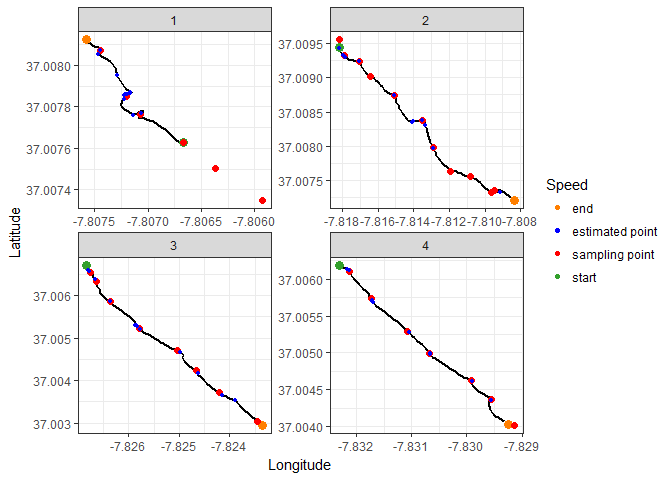
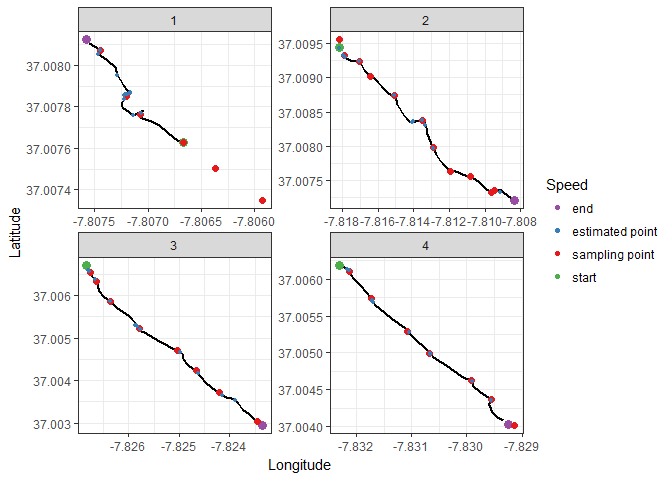
README

diff --git a/README.md b/README.md
@@ -3,6 +3,8 @@ Caulerpa sampling in the Ria Formosa
 Márcio Martins
 26 Jan 2018
 
+Caulerpa prolifera sampling transects
+-------------------------------------
 
 To determine the spatial distribution of *Caulerpa prolifera*, divers swam transects across a canal in the Ria Formosa lagoon (South Portugal) and stopped at pre-determined intervals to collect samples.
 
@@ -12,12 +14,12 @@ To determine the spatial distribution of *Caulerpa prolifera*, divers swam trans
 -   Sampling points were also determined by having a user look at footage of the dives, mark the times at which samples were taken and them crossing them with the GPS data. These points were then used to confirm if this automatic method is accurate
 
 **GOALS:**
-1. To determine start and end point of each transect, isolate and extract them
-2. Using the extracted transects, attempt to determine sampling points
+1. To determine start and end point of each transect, isolate and extract them.
+2. Determine sampling points along the transect.
 
 ### Isolating transects
 
-Let's start by importing the tracks. File format is ".gpx". For conveniency, I will convert this information into a matrix-like format. There are 4 also tracks on record. We are only interested in the last one.
+Let's start by importing the tracks. File format is ".gpx". For conveniency, I will convert this information into a tabular format. There are 4 also tracks on record. We are only interested in the last one.
 
 ``` r
 track <- readOGR("./GPS_tracks.gpx", layer = "track_points")
@@ -53,7 +55,7 @@ head(points)
     ## 5 2018-01-25 12:38:19  37.0 -7.81
     ## 6 2018-01-25 12:38:20  37.0 -7.81
 
-Now the information is in a tibble (basically a data.frame, or a matrix). This format is very easy to manipulate, as well as plot using ggplot2.
+Now the information is in a tibble (a "modern take on data frames"). This format is very easy to manipulate, as well as plot using ggplot2.
 
 Let's start by getting a glimpse of the full track:
 
@@ -79,10 +81,10 @@ Using this information, we need to extract the starting and ending points of eac
 > Due to limitations in github .md files, this does not work on the github page.
 
 Using this interactive map we can approximate the first and last points of each trasect and obtain their ID:
-* Transect one: Points 1 to 581
-* Transect two: Points 2401 to 3811
-* Transect three: Points 5311 to 6601
-* Transect four : Points 8311 to 9571
+- Transect one: Points 1 to 581
+- Transect two: Points 2401 to 3811
+- Transect three: Points 5311 to 6601
+- Transect four : Points 8311 to 9571
 
 We can now extract the transects.
 
@@ -114,7 +116,9 @@ ggmap(map) +
   theme(legend.position = "none")
 ```
 
-<img src="README_files/figure-markdown_github/transects-1.png" style="display: block; margin: auto;" /> The resulting transects seem accurate. However, results should be confirmed by checking starting and ending times for transects in the videos. To make this task easier, let's make a table with start/end times for the transects obtained here.
+<img src="README_files/figure-markdown_github/transects-1.png" style="display: block; margin: auto;" />
+
+The resulting transects seem accurate. However, results should be confirmed by checking starting and ending times for transects in the videos. To make this task easier, let's make a table with start/end times for the transects obtained here.
 
 ``` r
 kable(transects %>%
@@ -186,8 +190,7 @@ End
 </tr>
 </tbody>
 </table>
-
-##Sampling points
+### Sampling points
 
 Now that we have the transects, let's see how accurate an automated methodology to determine sampling points would be. With one point per second, we have a pretty high resolution track for the transects. An interesting method might be to estimate diver's speeds along the transects to find stopping points.
 
@@ -196,12 +199,12 @@ To do so, we will:
 -   Calculate the total distance travelled from start of transect until current point
 -   Calculate travel speed at each point
 
-The distance between any two points p1 and p2 is given by: Distance <sub>p1 to p2</sub> = Square root ((X<sub>2</sub> - X<sub>1</sub>) + (Y<sub>2</sub> - Y<sub>1</sub>))
+The distance between any two points p1 and p2 is given by: Distance <sub>p1 to p2</sub> = Square root ((X<sub>2</sub> - X<sub>1</sub>)<sup>2</sup> + (Y<sub>2</sub> - Y<sub>1</sub>)<sup>2</sup>)
 
 The full distance travelled from the start of the transect to any given point is then simply the cumulative sum of distance. To this we will call Delta Distance.
 
 The diver speed at any given point can be calculated as the speed over the previous 10 seconds:
-Speed<sub>at time</sub> = Delta Distance<sub>time</sub> - Delta Distance<sub>time - 10</sub>
+Speed<sub>at time</sub> = (Delta Distance<sub>time - 10</sub> - Delta Distance<sub>time</sub>)/10
 
 Because we're only interested in how fast they are going relative to other points in the transect, we will leave distance units as degrees and will calculate speed as degrees per second.
 
@@ -248,7 +251,7 @@ ggplot() +
              aes(x = long, y = lat, fill = extremety),
              size = 3,
              shape = 21) +
-  scale_fill_manual(values = c("start" = "#33a02c", "end" = "#ff7f00")) + 
+  scale_fill_manual(values = points_palette) + 
   facet_wrap(~ transect, scales = "free")+
   labs(x = "Longitude", y = "Latitude", color = "Scaled speed", fill = "") +
   theme_bw()
@@ -271,7 +274,7 @@ ggplot() +
              aes(x = long, y = lat, fill = extremety),
              size = 3,
              shape = 21) +
-  scale_fill_manual(values = c("start" = "#33a02c", "end" = "#ff7f00")) + 
+  scale_fill_manual(values = points_palette) + 
   labs(x = "Longitude", y = "Latitude", color = "Speed", fill = "") +
   theme_bw()
 ```
@@ -280,7 +283,7 @@ ggplot() +
 
 We're getting somewhere now.
 
-#Estimated vs real sampling points
+### Estimated vs real sampling points
 
 All of the sampling points were manually determined using video footage of the dive and cross referencing the times at which samples were taken with with time of the GPS footage. To see how effective our sampling point location is we can now plot automatic and manually determined points and see how close they are.
 
@@ -289,7 +292,7 @@ All of the sampling points were manually determined using video footage of the d
 identify_points <- function(vector,interval){
   interval <- interval - 1
   point_id <- 1                       #initialize a number to identify sampling points
-  ids <- vector(mode = "numeric")     #Vector to store point ids
+  ids <- vector(mode = "numeric")     #Vector to stopre sampling points id number
   for(i in 1:length(vector)){
     #If 10 points in a row are considered slow, return TRUE (divers are stoped)
     stopped <- all(c(vector[i:i+interval]) == "slow")
@@ -299,7 +302,7 @@ identify_points <- function(vector,interval){
            point_id,
            NA))
     
-    point_id <- ifelse(stopped, point_id, point_id + 1) #If divers are moving again, increase point ID counter. This does not identify the points in numeric order, but that is not necessary
+    point_id <- ifelse(stopped, point_id, point_id + 1) #If divers are moving, increase point ID counter. This does not create a continuous ID (there are gaps), but that is not necessary
   }
   return(ids)
 }
@@ -307,10 +310,10 @@ identify_points <- function(vector,interval){
 transects_smooth <- transects %>%         #To plot smooth transects I will average every 10 points and plot a path
                     select(lat, long, nr, transect, extremety) %>%
                     group_by(transect) %>%
-                    mutate(long = rollmean(long, 10, fill = NA),
-                           lat  = rollmean(lat, 10, fill = NA)) %>%
+                    mutate(long = rollmean(long, 20, fill = NA, aling = "center"),
+                           lat  = rollmean(lat, 20, fill = NA), aling = "center") %>%
                     filter(!is.na(lat)) %>%
-                    .[seq(1, nrow(.), 10),]  %>% #Select every 10th point
+                    .[seq(1, nrow(.), 20),]  %>% #Select every 10th point
                     ungroup()
 
 sampling_points <- read_csv2("./sampling_points.csv") %>%  #Import the manually determined points
@@ -339,7 +342,7 @@ ggplot() +
   geom_path(data = transects_smooth, aes(x = long, y = lat, group = transect), size = 1) +
   geom_point(data = plot_points, aes( x = long, y = lat, color = name, size = name)) +
   facet_wrap(~ transect, scales = "free") +
-  scale_color_manual(values = c("start" = "#33a02c", "end" = "#ff7f00", "sampling point" = "red", "estimated point" = "blue")) + 
+  scale_color_manual(values = points_palette) + 
   scale_size_manual(values = c("start" = 3, "end" = 3, "sampling point" = 2, "estimated point" = 1), guide = FALSE) +
   labs(x = "Longitude", y = "Latitude", color = "Speed", fill = "") +
   theme_bw()
@@ -349,12 +352,14 @@ ggplot() +
 
 This methodology seems to be usefull to approximate sampling locations without manually going through video footage. One pattern is also very obvious: it was much more accurate in the last 2 transects than the first ones. There are also some points that were not detected at all. Here is the list of reasons I believe is causing the largest flaws in the method:
 
-*   One of the divers was using a scuba scooter for the first time. I believe this is why there are some random stops in transect 1
-*  In areas where there was no caulerpa, the divers simply kept going, meaning there is no stop
-*  Part of transect one was not even recorded in the GPS data (memory was full and it was overwritten)
+-   One of the divers was using a scuba scooter for the first time, and the first dive was done against the current. This made the first transect's speed fluctuate a
+-   In areas where there was no *Caulerpa prolifera*, the divers simply kept going, meaning there is no stop
+-   Part of transect one was not even recorded in the GPS data (memory was full and it was overwritten)
 
-Much of this can be fixed:
-* Change GPS to record points every 5 seconds, rather than 1 increases the time we can record 5-fold (and carry an extra GPS just in case)
-* Ensure divers ALWAYS stop a minimum of 30 seconds, even if there is no Caulerpa in the area
-* Record transect start and end time, so that transects can be extracted easily  
-* Extract number of estimated sampling points and see if they match real number of samples as a checking method
+**Much of this can be fixed by setting some rules for field work:**
+- Change GPS to record points every 5 seconds, rather than 1 increases the time we can record 5-fold, while maintaining a high resolution (make sure to carry an extra GPS just in case)
+- Ensure divers ALWAYS stop a minimum of 30 seconds per sampling point, even if there is no Caulerpa in the area
+- Record transect start and end time, so that transects can be extracted easily by filtering points between certain time periods
+
+**The reliability of the processing can be improved by:** - Smoothing the time series (a simple running average would likely be enough) to decrease noise in the the data and only leave stopping. This might not be as important if recording interval is changed from 1 second to 5, but it's worth looking into
+- As a check for accuracy of results, extract number of estimated sampling points and see if they match real number of samples (really easy to do at this point)
